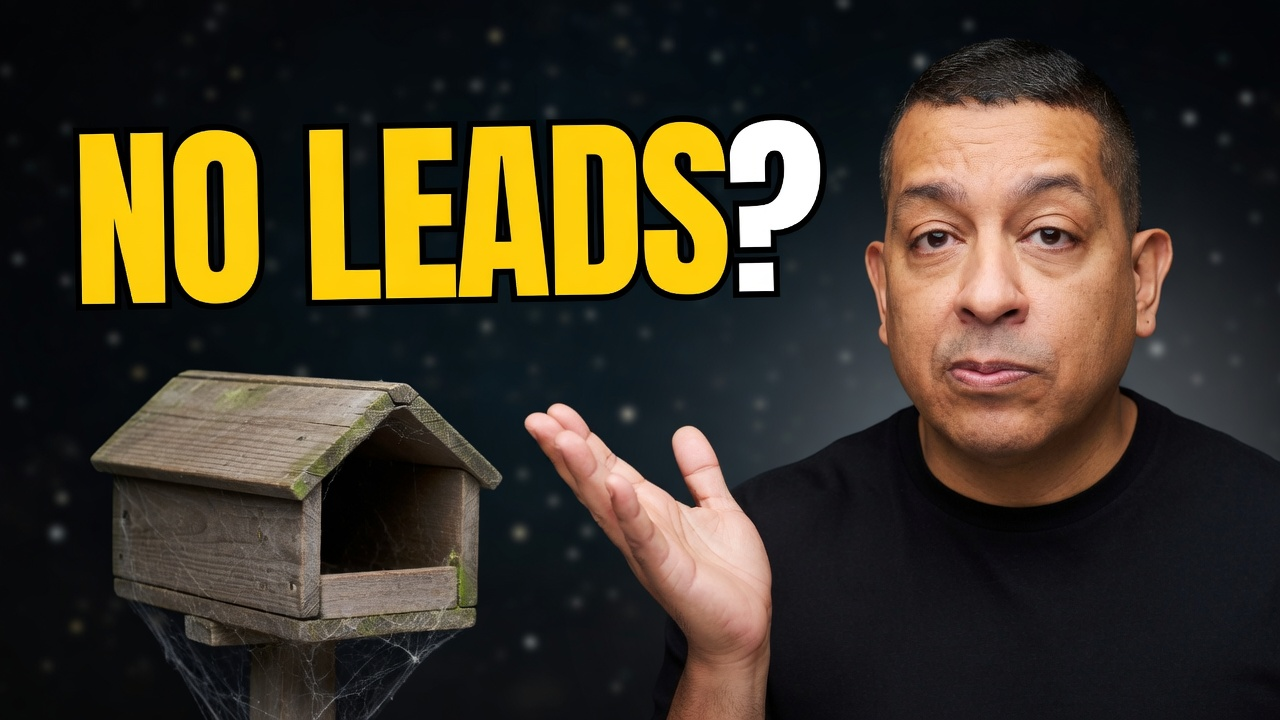
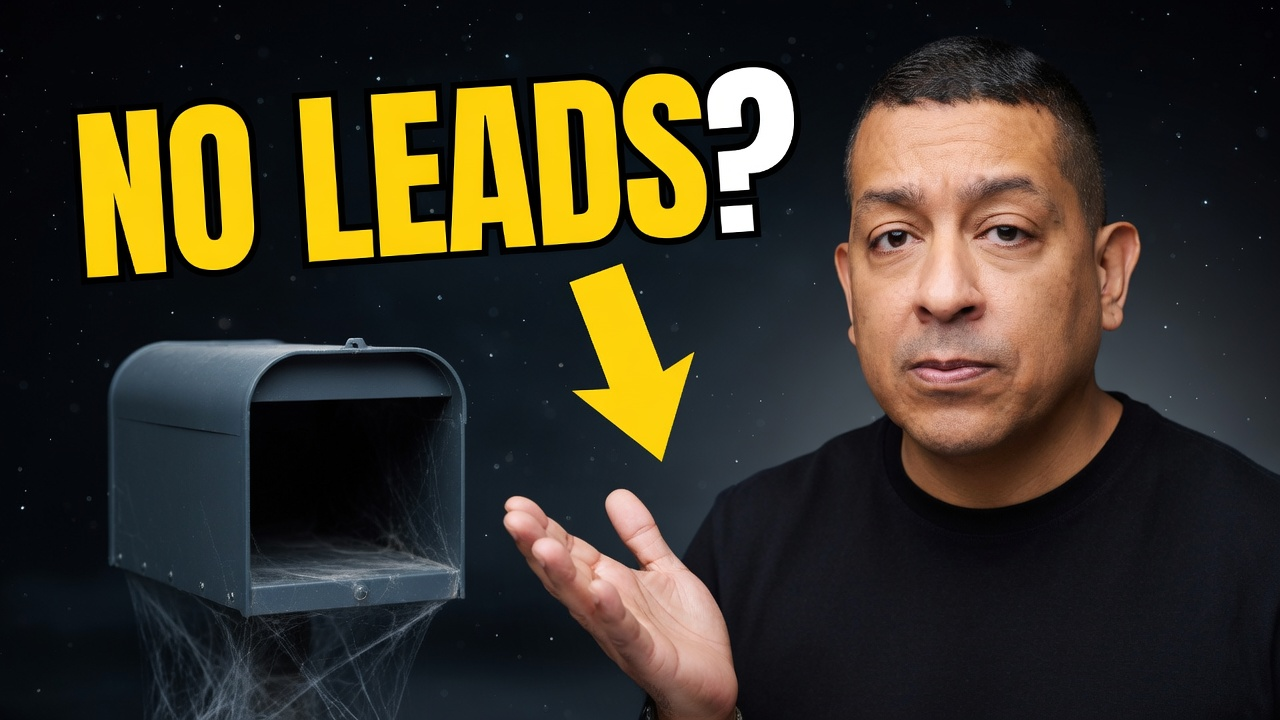
thumbnails keep the operator's face and hair: identity lock in the prompt, identity check in the QA gate
generate-image.py takes --identity <portrait>: the verifier sees the
portrait beside the result and fails any image whose hair or facial
feature was changed, restyled, aged or replaced; only expression, pose
and hands may differ. Retries carry an identity lock. The brief and the
skill pass it for every thumbnail. Example thumbnails regenerated.

diff --git a/skills/generate-image/generate-image.py b/skills/generate-image/generate-image.py
@@ -312,12 +312,20 @@ VERIFY_MODEL = os.environ.get("YTI_VERIFY_MODEL", "grok-4.5")
 
 
 def verify_image(path: Path, prompt: str, expect_text: str | None,
-                 context: str | None = None) -> dict:
+                 context: str | None = None, identity: str | None = None) -> dict:
     """Vision-QA a generated image: transcribe rendered text, flag misspellings
-    and visual defects. Returns {"pass": bool, "issues": [...], "text": "..."}."""
+    and visual defects. With *identity* (a portrait file), the person in the
+    image must be that person: same face and hair, only expression and pose
+    may differ. Returns {"pass": bool, "issues": [...], "text": "..."}."""
     provider, token = resolve_provider()
     mime = _MIME_BY_EXT.get(path.suffix.lower(), "image/jpeg")
     data_url = f"data:{mime};base64,{base64.b64encode(path.read_bytes()).decode()}"
+    id_mime, id_data = None, None
+    if identity:
+        ip = Path(identity)
+        if ip.is_file():
+            id_mime = _MIME_BY_EXT.get(ip.suffix.lower(), "image/jpeg")
+            id_data = base64.b64encode(ip.read_bytes()).decode()
     checklist = (
         "You are a strict pre-publication QA reviewer for generated images. "
         "1) Transcribe EVERY piece of rendered text in the image exactly as drawn, "
@@ -348,6 +356,14 @@ def verify_image(path: Path, prompt: str, expect_text: str | None,
            "'context:') if the image does not describe or fit the script "
            "text. "
            if context else "")
+        + ("5) IDENTITY: the SECOND image is the real person's portrait. The person "
+           "in the FIRST (generated) image must be that same person: the same face "
+           "shape, hairline, hair length, hair style and hair colour, skin tone, "
+           "eyes, nose, ears and jaw. Only the expression, the pose and the hands "
+           "may differ. Compare feature by feature. FAIL (add an issue starting "
+           "with 'identity:' naming the changed feature) if the hair or any facial "
+           "feature was changed, restyled, aged, slimmed or replaced. "
+           if id_data else "")
         + 'Reply with ONLY a JSON object: {"pass": true|false, "text": "<all transcribed text>", '
           '"issues": ["<each problem found>"]}. Fail on ANY spelling error or garbled text.'
     )
@@ -356,6 +372,7 @@ def verify_image(path: Path, prompt: str, expect_text: str | None,
             payload = _gemini_call(token, GEMINI_VERIFY_MODEL, [
                 {"inline_data": {"mime_type": mime,
                                  "data": base64.b64encode(path.read_bytes()).decode()}},
+            ] + ([{"inline_data": {"mime_type": id_mime, "data": id_data}}] if id_data else []) + [
                 {"text": checklist},
             ], {"temperature": 0})
             content = "".join(
@@ -367,6 +384,7 @@ def verify_image(path: Path, prompt: str, expect_text: str | None,
                 "model": VERIFY_MODEL,
                 "messages": [{"role": "user", "content": [
                     {"type": "image_url", "image_url": {"url": data_url}},
+                ] + ([{"type": "image_url", "image_url": {"url": f"data:{id_mime};base64,{id_data}"}}] if id_data else []) + [
                     {"type": "text", "text": checklist},
                 ]}],
                 "temperature": 0,
@@ -404,6 +422,10 @@ def main() -> None:
                          "the sketchnote style")
     ap.add_argument("--expect-text", default=None,
                     help="Comma-separated labels that must appear spelled exactly")
+    ap.add_argument("--identity", default=None,
+                    help="A portrait file: the QA gate fails any image whose person is not this "
+                         "person (face and hair unchanged; only expression and pose may differ). "
+                         "Use it with --input <portrait> for thumbnails.")
     ap.add_argument("--context", default=None,
                     help="The script text this image illustrates (beat title + "
                          "condensed spoken lines) — the QA gate fails images "
@@ -442,7 +464,7 @@ def main() -> None:
         failures: list[tuple[Path, dict]] = []
         for path in written:
             verdict = verify_image(path, args.prompt, args.expect_text,
-                                   args.context)
+                                   args.context, args.identity)
             if verdict.get("pass"):
                 print(f"saved: {path} (QA pass; text: {verdict.get('text', '')[:120]!r})")
             else:
@@ -460,8 +482,14 @@ def main() -> None:
         if args.expect_text:
             spelled = ", ".join("-".join(w.strip().upper()) for w in args.expect_text.split(","))
             spell = f" Spell these labels exactly, letter by letter: {spelled}."
+        ident = ""
+        if args.identity and "identity:" in fixes:
+            ident = (" IDENTITY LOCK: the person must be exactly the person in the first input "
+                     "image: same face shape, hairline, hair length, style and colour, skin tone, "
+                     "eyes, nose, ears and jaw. Change only the expression and the pose. Do not "
+                     "restyle the hair or borrow any feature from the reference images.")
         prompt = (f"{args.prompt} CRITICAL: previous attempt had these defects, avoid them: "
-                  f"{fixes}. Render all text perfectly spelled and fully legible.{spell}")
+                  f"{fixes}. Render all text perfectly spelled and fully legible.{spell}{ident}")
         print(f"retrying ({attempt}/{args.retries}) with corrective prompt...")
 
 

diff --git a/yti_artifact.py b/yti_artifact.py
@@ -588,7 +588,12 @@ def build_simple_brief(title: str, url: str, content: str, out_dir: Path, images
         "   fetched with curl -4) so the result looks like the winners: same",
         "   typography treatment, colour grading, contrast and energy, not a plain",
         "   text-on-black. The prompt says the person comes from the first image",
-        "   only. Vary the pair across the five. The prompt names the exact words",
+        "   only, with the same face and hair (hairline, length, style, colour),",
+        "   skin tone and features; only expression, pose and hands change; the",
+        "   references guide type, colour and layout, never the person. Pass",
+        "   `--identity <portrait>` so the QA gate compares the result with the",
+        "   portrait and regenerates when the hair or a feature was changed.",
+        "   Vary the pair across the five. The prompt names the exact words",
         "   (`--expect-text`) and nothing else. Words on a thumbnail: no more than",
         "   5, and 2 or 3 when they carry the point.",
         "   Save as img/thumb-1.jpg to img/thumb-5.jpg. If no portrait prints, stop",

diff --git a/skills/simple-artifact/SKILL.md b/skills/simple-artifact/SKILL.md
@@ -102,9 +102,14 @@ promise the page makes: copy the promise section's key line into
    set as `--reference` (full size: `https://i.ytimg.com/vi/<id>/maxresdefault.jpg`,
    falling back to `hqdefault.jpg`; fetch with `curl -4` into scratch). Pick
    the two whose layout and mood fit the beat; vary the pair across the
-   five. The prompt says: the person comes from the first image only; match
-   the references' typography treatment, colour grading, contrast and
-   energy; the exact words in `--expect-text`, no other text. No more than
+   five. The prompt says: the person comes from the first image only, with
+   the same face and hair (hairline, length, style, colour), skin tone and
+   features; only the expression, pose and hands change; the references
+   guide typography treatment, colour grading, contrast and energy, never
+   the person. Pass `--identity <portrait>` too: the QA gate then compares
+   the result with the portrait feature by feature and regenerates when the
+   hair or a facial feature was changed. The exact words in `--expect-text`,
+   no other text. No more than
    5 words; 2 or 3 when they carry the point. Save as `img/thumb-1.jpg` to
    `img/thumb-5.jpg`. No portrait: stop and complete the task saying one
    must be uploaded (Artifacts tab).
